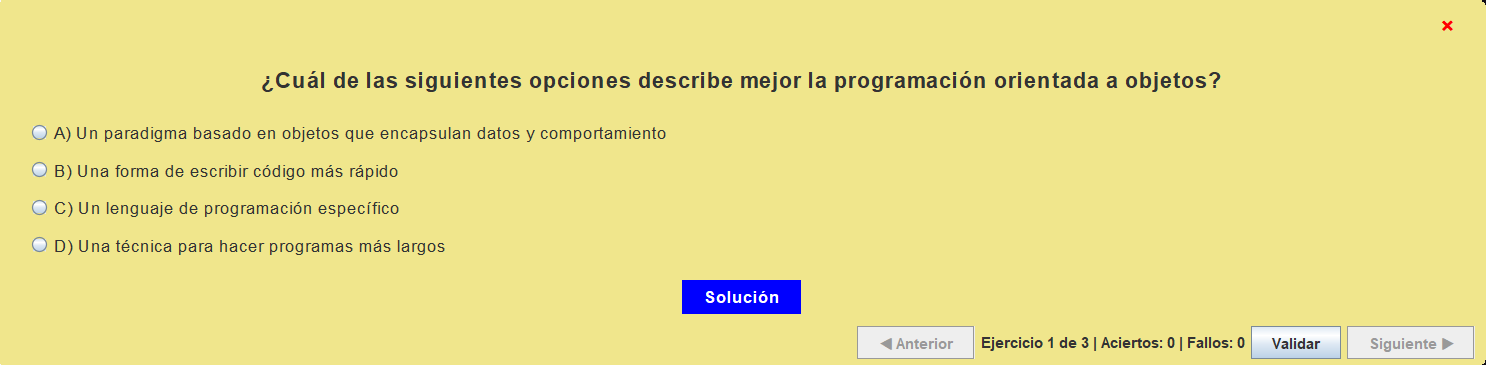
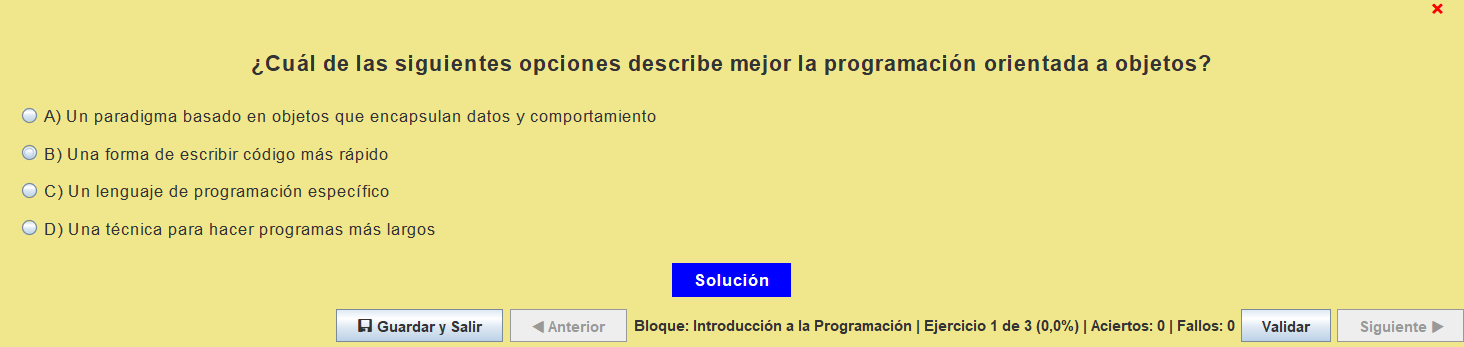
Cambios en Manual de Usuario

diff --git a/docs/manual-usuario/manual-de-usuario.md b/docs/manual-usuario/manual-de-usuario.md
@@ -1,18 +1,18 @@
 # Manual de Usuario Piolify
 
-## Ejecución
+## 🚀 Ejecución
 
 Para iniciar la aplicación, se debe ejecutar la clase `Login`, ubicado en el paquete `umu.pds.vista` del repositorio. Una vez lanzada la aplicación, se muestra la siguiente ventana:  
 
-<p align="center"><img src="./imagenes/login.png"  alt="Ventana Login" width=500></p>  
+<p align="center"><img src="./imagenes/login.png"  alt="Ventana Login" width=700></p>  
 
 En esta pantalla, el usuario debe introducir sus credenciales (correo electrónico y contraseña) para tener acceso total a la plataforma. Si es la primera vez que ha iniciado la aplicación, lo más probable es que no tenga una cuenta de usuario. Para registrarse en Piolify, se debe pulsar el botón **Registrarse**, redirigiéndolo al formulario de registro.
 
-<p align="center"><img src="./imagenes/registro.png"  alt="Ventana Registro" width=500></p>
+<p align="center"><img src="./imagenes/registro.png"  alt="Ventana Registro" width=700></p>
 
 Para registrarse, debe rellenar todos los campos del formulario y, opcionalmente, proporcionar una foto de perfil. Una vez se haya registrado exitosamente, su cuenta queda registrada y podrá iniciar sesión, a partir de la ventana **Login** mostrada anteriormente.
 
-## Ventana Principal de Piolify
+## 🏠 Ventana Principal de Piolify
 
 La aplicación se divide en cuatro secciones:
 
@@ -21,16 +21,16 @@ La aplicación se divide en cuatro secciones:
 - [**Amigos**](#amigos): Sección social de la plataforma.
 - [**Mi perfil**](#mi-perfil): Gestión de la información personal del usuario.
 
-### Mis Cursos
+### 📚 Mis Cursos
 
-<p align="center"><img src="./imagenes/miscursos.png"  alt="Ventana Principal`" width=500 style="padding-top:1rem"></p>
+<p align="center"><img src="./imagenes/miscursos.png"  alt="Ventana Principal`" width=700 style="padding-top:1rem"></p>
 
 Es la sección por defecto al iniciar sesión en Piolify. El usuario es capaz de:
 
 - Importar nuevos cursos en formato  `.json` mediante el botón [**Importar curso**](#importar-cursos).
 - Acceder a todos los cursos que ha importado anteriormente. Si no se tienen cursos cargados, se muestra un mensaje por defecto.
 
-### Estadísticas
+### 📊 Estadísticas
 
 Permite al usuario visualizar un resumen de su actividad dentro de la plataforma, ideal para un mejor seguimiento del progreso de su aprendizaje. Esta sección muestra:
 
@@ -43,17 +43,17 @@ Permite al usuario visualizar un resumen de su actividad dentro de la plataforma
 - Los **Logros Obtenidos** por el usuario durante las sesiones de aprendizaje.
 - El **Progreso por Cursos**
 
-<p align="center"><img src="./imagenes/estadisticas.png"  alt="Ventana Estadísticas" width=500 style="padding-top:1rem"></p>
+<p align="center"><img src="./imagenes/estadisticas.png"  alt="Ventana Estadísticas" width=700 style="padding-top:1rem"></p>
 
-### Amigos
+### 👥 Amigos
 
 Permite al usuario interactuar con otros usuarios de la plataforma, permitiendo enviar solicitudes de amistad a partir de su correo electrónico, gestionar solicitudes recibidas y consultar su lista de amigos.
 
-<p align="center"><img src="./imagenes/amigos.png"  alt="Ventana Amigos" width=500 style="padding-top:1rem"></p>
+<p align="center"><img src="./imagenes/amigos.png"  alt="Ventana Amigos" width=700 style="padding-top:1rem"></p>
 
-### Mi perfil
+### 👤 Mi perfil
 
-<p align="center"><img src="./imagenes/miperfil.png"  alt="Ventana Mi Perfil" width=500 style="padding-top:1rem"></p>
+<p align="center"><img src="./imagenes/miperfil.png"  alt="Ventana Mi Perfil" width=700 style="padding-top:1rem"></p>
 
 El usuario puede:
 
@@ -73,7 +73,7 @@ Piolify notificará con un mensaje en pantalla si los cambios solicitados no pue
 
 ## Funcionalidades del sistema
 
-### Importar Cursos
+### 📥 Importar Cursos
 
 Para importar un curso, el usuario debe estar en la sección de **Mis Cursos** y pulsar el botón **Importar curso**. Tras ello, se muestra una ventana para que el usuario escoja el archivo .json que contiene el curso que desea importar.
 
@@ -89,14 +89,19 @@ Una vez seleccionado y pulsado el botón **Abrir**, la plataforma verifica si es
       <img src="./imagenes/exitoimportacion.png" alt="Éxito de importación" width="400"/>
     </td>
     <td align="center" valign="middle">
-      <img src="./imagenes/miscursos-2.png" alt="Mis cursos" width="400"/>
+      <img src="./imagenes/miscursos-2.png" alt="Mis cursos" width="500"/>
     </td>
   </tr>
 </table>
 
-### Realizar un curso
+### 🎓 Realizar un curso
 
-Para empezar una sesión de aprendizaje de un curso, se debe pulsar el curso que se quiere realizar mostrado en **Biblioteca de Cursos**. Una vez hecho, Piolify permitirá elegir al usuario la estrategia de aprendizaje que desea para **esa** sesión. Dependiendo de la estrategia, el orden de los ejercicios de la sesión será diferente. Se muestran tres posibilidades:
+Para empezar una sesión de aprendizaje de un curso, se debe pulsar el curso que se quiere realizar mostrado en **Biblioteca de Cursos**. Una vez hecho, Piolify permitirá elegir al usuario el bloque que desea para la sesión, mostrando tanto el progreso general del curso, como el progreso específico para cada curso.
+
+<p align="center"><img src="./imagenes/seleccionarbloque.png"  alt="Ventana Seleccionar Bloque" width=500></p>
+
+
+Tras seleccionar el bloque, Piolify permite elegir al usuario la estrategia de aprendizaje que desea para **esa** sesión. Dependiendo de la estrategia, el orden de los ejercicios de la sesión será diferente. Se muestran tres posibilidades:
 
 - **Secuencial**: El orden viene impuesto por el definido en el archivo JSON. Esta es la estrategia por defecto.
 - **Repetición espaciada**: Cada tres preguntas como intervalo, se repite una pregunta vista anteriormente (siguiendo un orden secuencial).
@@ -104,25 +109,33 @@ Para empezar una sesión de aprendizaje de un curso, se debe pulsar el curso que
 
 <p align="center"><img src="./imagenes/seleccionarestrategia.png"  alt="Ventana Seleccionar Estrategia" width=400></p>
 
-Una vez seleccionado, a continuación la plataforma pregunta al usuario que bloque del curso desea realizar.
+Una vez seleccionado la estrategia, si el usuario dejó una sesión incompleta guardada, Piolify permite:
 
-<p align="center"><img src="./imagenes/seleccionarbloque.png"  alt="Ventana Seleccionar Bloque" width=500></p>
+- **Continuar** la sesión por donde lo dejó la última vez.
+- **Cambiar** la estrategia de aprendizaje seleccionada la última vez y continuar desde ese mismo punto.
+- **Reiniciar** la sesión desde el principio. Se vuelve a solicitar una estrategia de aprendizaje.
+- **Cancelar** la sesión de aprendizaje actual.
 
-Tras seleccionar el bloque, Piolify inicia automáticamente la sesión de aprendizaje. Durante la sesión:
+<p align="center"><img src="./imagenes/sesionencurso.png"  alt="Ventana Sesion en Curso" width=700></p>
 
-- Las preguntas se muestran una a una. El usuario puede retrodecer al ejercicio anterior en cualquier momento, pero para pasar a la siguiente, el usuario debe responder **correctamente** al ejercicio. Es por ello que, en caso de que el usuario se atasque, si se pulsa el botón **Solución** se muestra la respuesta correcta.
+Una vez que el usuario selecciona cómo desea retomar la sesión, se presentan los ejercicios del bloque correspondiente.
+
+- Las preguntas se muestran una a una. El usuario puede retrodecer al ejercicio anterior en cualquier momento, pero para pasar a la siguiente, el usuario debe responder **correctamente** al ejercicio. 
+- En el caso de que el usuario se atasque, si se pulsa el botón **Solución** se muestra la respuesta correcta.
 - Para que el usuario envíe una respuesta debe pulsar el botón **Validar**, notificando Piolify del acierto o fallo.
 - Pueden aparecer diferentes tipos de ejercicios: **Selección Múltiple**, **Completar Huecos** o **Flashcards**.
 
-<p align="center"><img src="./imagenes/realizarejercicio.png"  alt="Ventana Realizar Bloque" width=900, style="padding-top:1rem"></p>
+<p align="center"><img src="./imagenes/realizarejercicio.png"  alt="Ventana Realizar Ejercicio" width=900, style="padding-top:1rem"></p>
+
+En cualquier momento, durante la sesión, el usuario puede pulsar el botón **Guardar y Salir**, guardando automáticamente el estado actual de la sesión y saliendo de la sesión, pudiendo retomarla posteriormente como se ha explicado anteriormente.
+
+> Si el usuario cierra la ventana sin pulsar el botón **Guardar y Salir**, el progreso de la sesión no se guarda y debera comenzarse desde el inicio la próxima vez. Sin embargo, las estadísticas obtenidas hasta ese momento si quedan registradas en el sistema.
 
 Una vez finalizada la sesión, Piolify muestra un resumen con las estadísticas obtenidas durante esta sesión, incluyendo: Número de ejercicios completados, aciertos, fallos,Precisión de aciertos y tiempo total de la sesión.
 
-> Si el usuario cierra la ventana de la sesión antes de completarla, no se guarda la sesión por lo que deberá comenzar desde el principio la próxima vez. No obstante, sus estadísticas quedaron registradas en el sistema.
+<p align="center"><img src="./imagenes/resumensesion.png"  alt="Ventana Resumen Sesión" width=300, style="padding-top:1rem"></p>
 
-<p align="center"><img src="./imagenes/resumensesion.png"  alt="Ventana Realizar Bloque" width=300, style="padding-top:1rem"></p>
-
-### Consultar Estadísticas y Logros
+### 📈 Consultar Estadísticas y 🏅 Logros
 
 En esta sección, el usuario puede obtener una visión detallada sobre su desempeño en la plataforma Piolify.
 
@@ -180,7 +193,7 @@ La información se encuentra organizada en tres apartados principales:
 <p>Esto permite al usuario evaluar su progreso en cada curso, identificar fortalezas y debilidades, y decidir dónde enfocar su siguiente sesión de estudio.</p>
 
 
-### Enviar solicitudes de amistad
+### 📩 Enviar solicitudes de amistad
 
 La sección **Amigos** de Piolify permite a los usuarios interactuar socialmente dentro de la plataforma. Desde aquí, se puede buscar a otros usuarios, enviar solicitudes de amistad, aceptar o rechazar solicitudes recibidas, ver la lista de amigos y consultar el perfil de cada uno.
 
@@ -200,8 +213,7 @@ Para enviar una solicitud de amistad:
 
 Una vez enviada, la solicitud quedará en estado pendiente hasta que el otro usuario la acepte o rechace.
 
-
-### Gestionar solicitudes de amistad
+### 📬 Gestionar solicitudes de amistad
 
 En la misma sección, se pueden gestionar las solicitudes recibidas. Al recibir una solicitud, el sistema mostrará el nombre y correo del remitente, junto con las opciones **Aceptar** o **Rechazar**.
 
